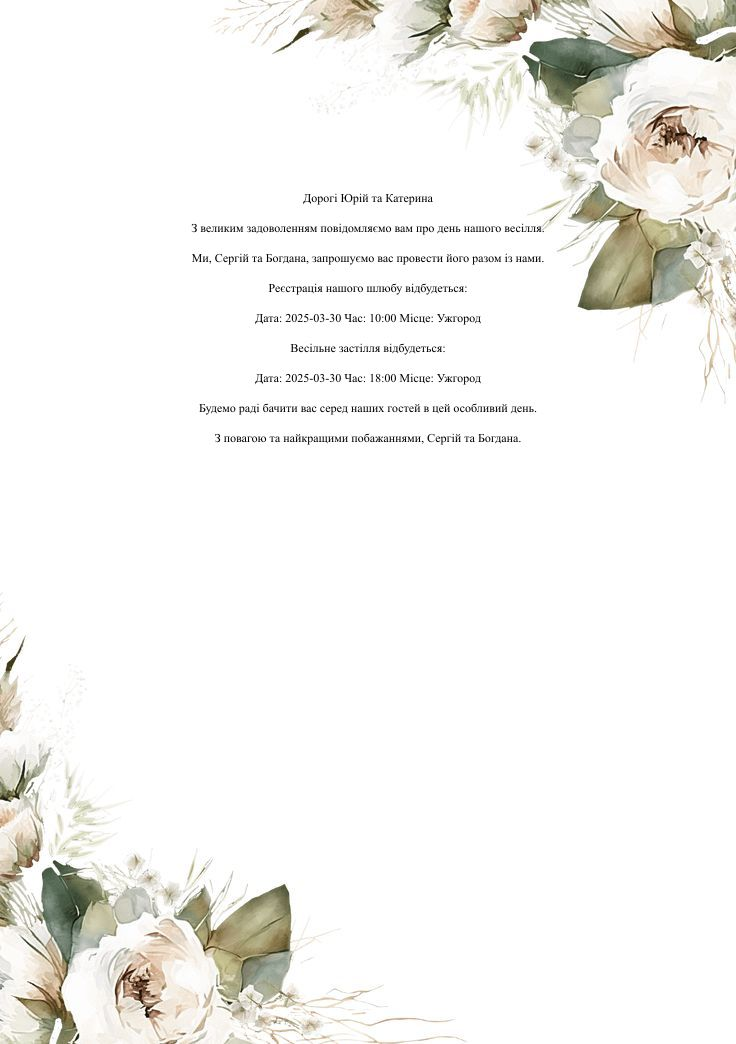
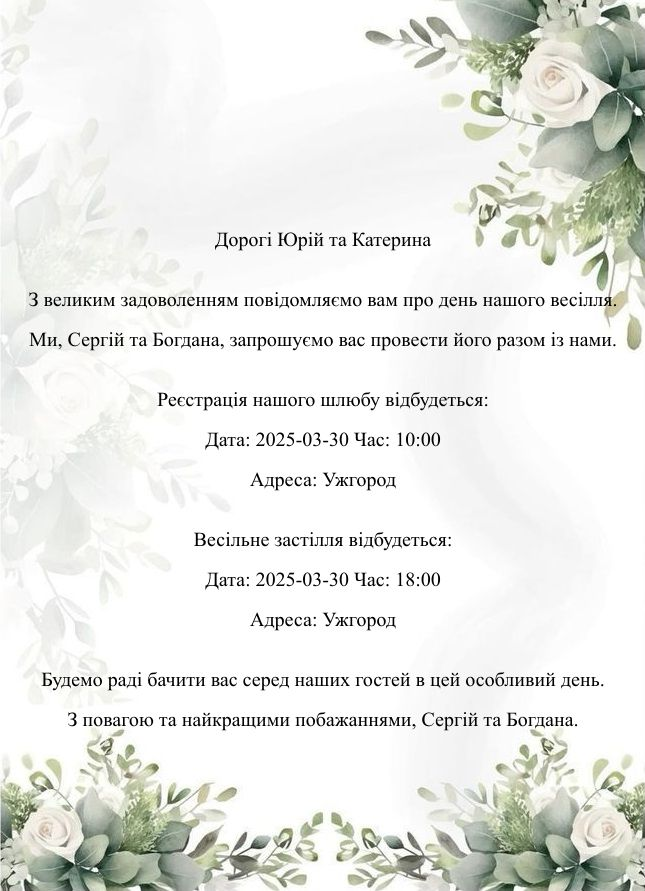
I created first version invitation
I created first version invitation.

diff --git a/server/invitationgenerator/routes/invitations.js b/server/invitationgenerator/routes/invitations.js
@@ -20,16 +20,18 @@ router.post('/getType', function (req, res) {
 router.post('/getInvitation', async function (req, res) {
     const file = await readFile(`${path}\\public\\images\\backgrounds\\${req['body']['invitation_details']['background_image']}`)
     const img = sharp(file)
-    const textSVG = Buffer.from(`<svg width="500" height="700">
-                        <text x="50%" y="30" text-anchor="middle"> ${req['body']['invitation_details']['greeting']} ${req['body']['invitation_details']['invitees_names']} </text>
-                        <text x="50%" y="60" text-anchor="middle"> ${req['body']['invitation_details']['message']} </text>
-                        <text x="50%" y="90" text-anchor="middle"> ${req['body']['invitation_details']['who']}, ${req['body']['invitation_details']['inviting_names']}, ${req['body']['invitation_details']['body']} </text>
-                        <text x="50%" y="120" text-anchor="middle"> ${req['body']['invitation_details']['event_title']} </text>
-                        <text x="50%" y="150" text-anchor="middle"> Дата: ${req['body']['invitation_details']['first_date']} Час: ${req['body']['invitation_details']['first_time']} Місце: ${req['body']['invitation_details']['first_place']}  </text>
-                        <text x="50%" y="180" text-anchor="middle"> ${req['body']['invitation_details']['party_title']} </text>
-                        <text x="50%" y="210" text-anchor="middle"> Дата: ${req['body']['invitation_details']['second_date']} Час: ${req['body']['invitation_details']['second_time']} Місце: ${req['body']['invitation_details']['second_place']}  </text>
-                        <text x="50%" y="240" text-anchor="middle"> ${req['body']['invitation_details']['assurance']} </text>
-                        <text x="50%" y="270" text-anchor="middle"> ${req['body']['invitation_details']['farewell']}, ${req['body']['invitation_details']['inviting_names']}. </text>
+    const textSVG = Buffer.from(`<svg width="600" height="600">
+                        <text x="50%" y="100" text-anchor="middle" font-size="20"> ${req['body']['invitation_details']['greeting']} ${req['body']['invitation_details']['invitees_names']} </text>
+                        <text x="50%" y="160" text-anchor="middle" font-size="20"> ${req['body']['invitation_details']['message']} </text>
+                        <text x="50%" y="200" text-anchor="middle" font-size="20"> ${req['body']['invitation_details']['who']}, ${req['body']['invitation_details']['inviting_names']}, ${req['body']['invitation_details']['body']} </text>
+                        <text x="50%" y="260" text-anchor="middle" font-size="20"> ${req['body']['invitation_details']['event_title']} </text>
+                        <text x="50%" y="300" text-anchor="middle" font-size="20"> Дата: ${req['body']['invitation_details']['first_date']} Час: ${req['body']['invitation_details']['first_time']} </text>
+                        <text x="50%" y="340" text-anchor="middle" font-size="20"> Адреса: ${req['body']['invitation_details']['first_place']} </text>
+                        <text x="50%" y="400" text-anchor="middle" font-size="20"> ${req['body']['invitation_details']['party_title']} </text>
+                        <text x="50%" y="440" text-anchor="middle" font-size="20"> Дата: ${req['body']['invitation_details']['second_date']} Час: ${req['body']['invitation_details']['second_time']} </text>
+                        <text x="50%" y="480" text-anchor="middle" font-size="20"> Адреса: ${req['body']['invitation_details']['second_place']} </text>
+                        <text x="50%" y="540" text-anchor="middle" font-size="20"> ${req['body']['invitation_details']['assurance']} </text>
+                        <text x="50%" y="580" text-anchor="middle" font-size="20"> ${req['body']['invitation_details']['farewell']}, ${req['body']['invitation_details']['inviting_names']}. </text>
                     </svg>`)
     const result = await img.composite([{ input: textSVG }]).toBuffer()
     await writeFile(`${path}\\public\\images\\invitations\\res.png`, result)
